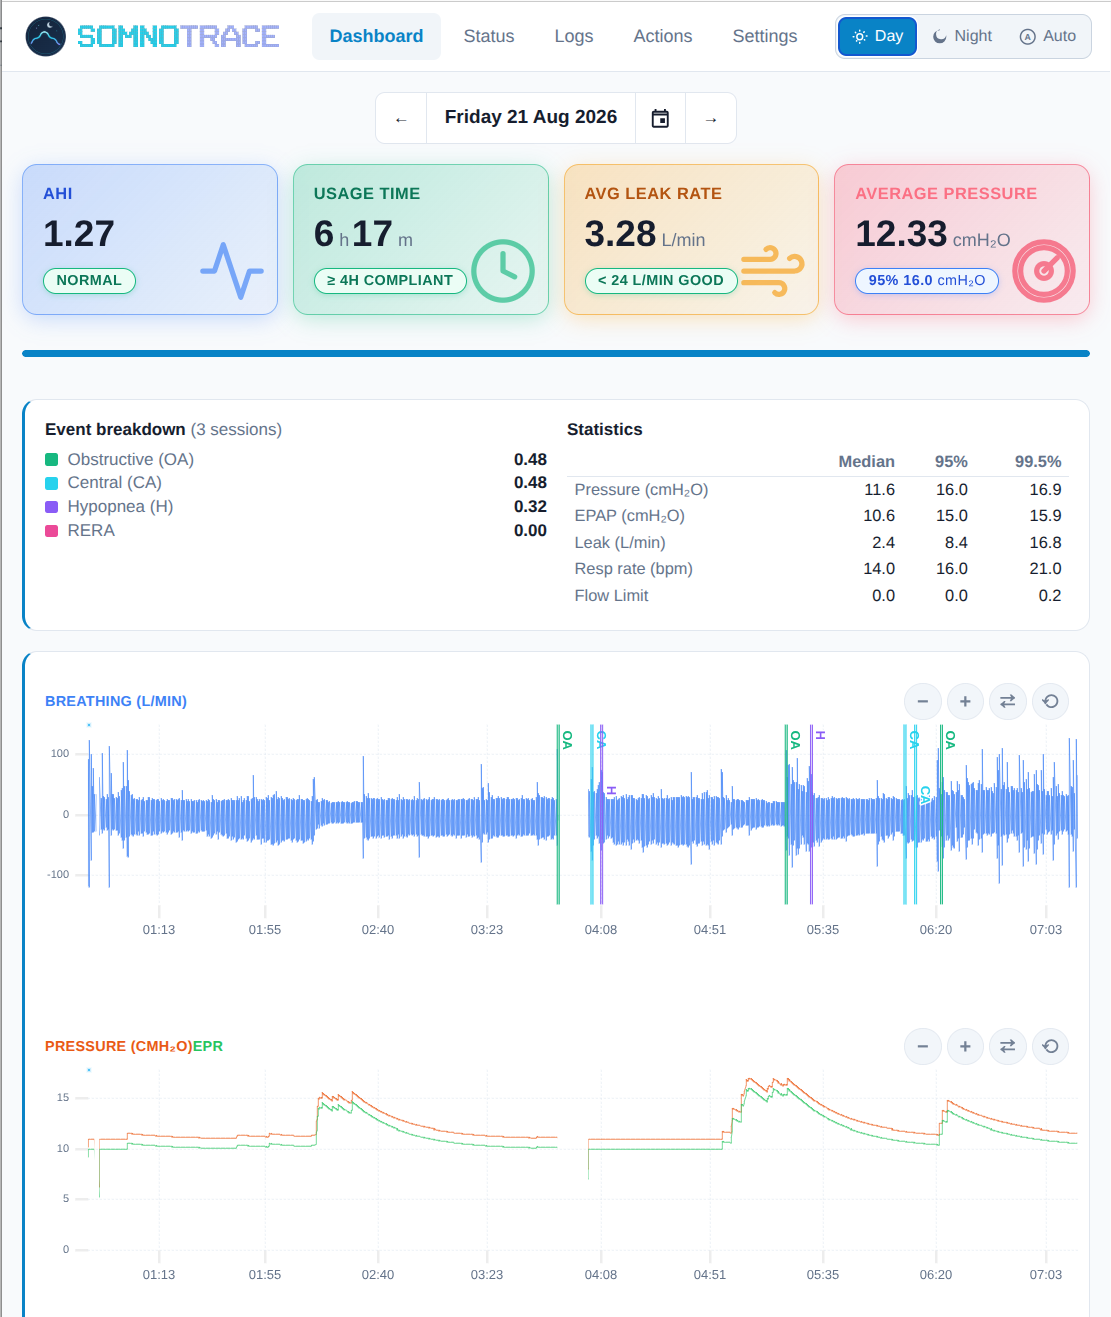
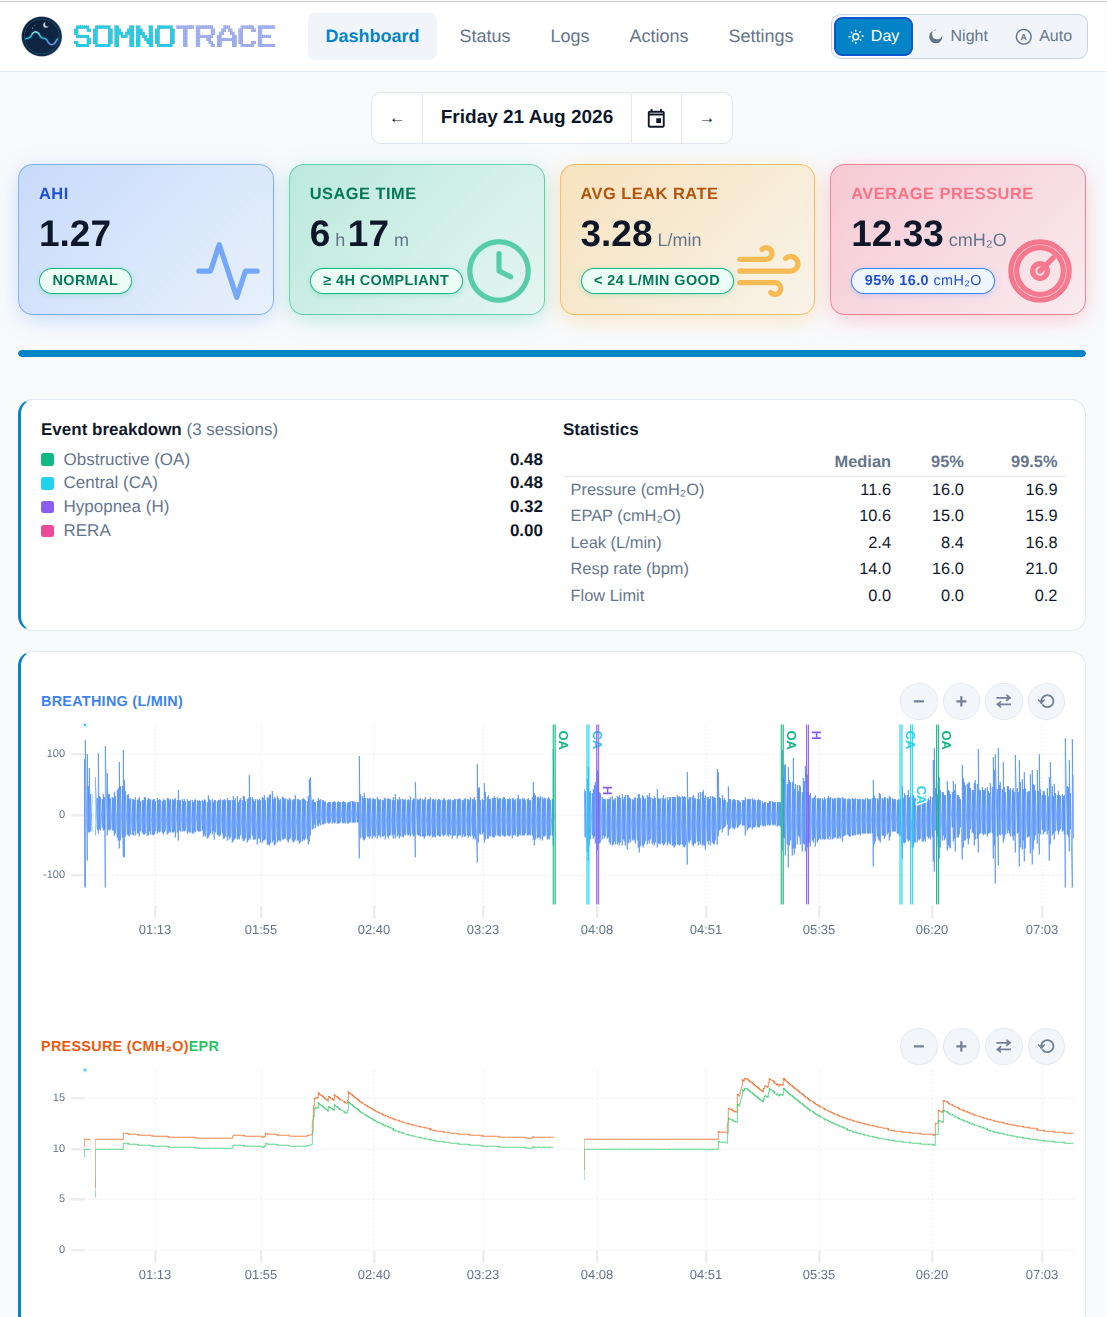
docs: update web dashboard screenshot with corrected aspect ratio (1107x1317)
- Replace ui.png with version showing proper proportions
- Adjust image width attribute from 1111 to 1107 pixels to match new asset dimensions

diff --git a/README.md b/README.md
@@ -137,7 +137,7 @@ flowchart LR
 Access the built-in web portal from any device on your Wi-Fi network without installing any apps:
 
 <p align="center">
-  <img width="1111" height="1317" alt="SomnoTrace Web Dashboard" src="assets/images/ui.png" />
+  <img width="1107" height="1317" alt="SomnoTrace Web Dashboard" src="assets/images/ui.png" />
 </p>
 
 - **Interactive Sleep Graphs:** High-resolution zoomable graphs for Breathing Flow, Mask Pressure, Leak Rate, Respiratory Rate, and Flow Limitation.
